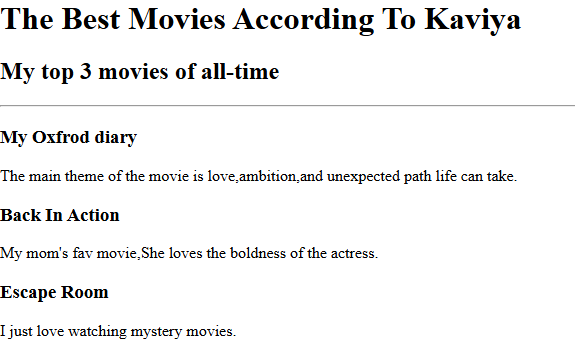
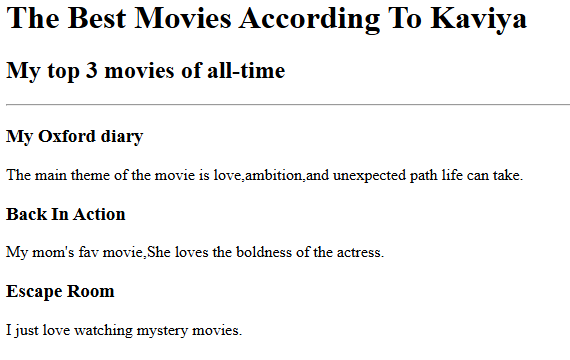
Add files via upload

diff --git a/index.html b/index.html
@@ -2,21 +2,21 @@
 <html lang="en">
 
 <head>
-  <meta charset="UTF-8">
-  <title>Kaviya's Portfolio</title>
+    <meta charset="UTF-8">
+    <title>Kaviya's Portfolio</title>
 </head>
 
 <body>
-  <h1>Kaviya's Portfolio</h1>
-  <h2>I'm a Web Developer</h2>
-  <hr />
-  <h3><a href="./public/movie-ranking.html">Movie Ranking Project</a></h3>
-  <img src="./assets/images/movie-ranking-1.png" height="200" alt="movie ranking project preview"/>
-  <h3><a href="./public/birthday-invite.html">Birthday Invite Project</a></h3>
-  <img src="./assets/images/birthday-invite-1.png" height="200" alt="birthday invite project preview"/>
-  <hr />
-  <a href="./public/about.html">About Me</a>
-  <a href="./public/contact.html">Contact Me</a>
+    <h1>Kaviya's Portfolio</h1>
+    <h2>I'm a Web Developer</h2>
+    <hr />
+    <h3><a href="./public/movie-ranking.html">Movie Ranking Project</a></h3>
+    <img src="./assets/images/movie-ranking-1.png" height="200" alt="movie ranking project preview" />
+    <h3><a href="./public/birthday-invite.html">Birthday Invite Project</a></h3>
+    <img src="./assets/images/birthday-invite-1.png" height="200" alt="birthday invite project preview" />
+    <hr />
+    <a href="./public/about.html">About Me</a>
+    <a href="./public/contact.html">Contact Me</a>
 </body>
 
 </html>

diff --git a/public/movie-ranking.html b/public/movie-ranking.html
@@ -1,9 +1,12 @@
-<h1>The Best Movies According to Angela</h1>
-<h2>My top 3 movies of all-time.</h2>
+<h1>The Best Movies According To Kaviya</h1>
+<h2>My top 3 movies of all-time</h2>
 <hr />
-<h3>Spirited Away</h3>
-<p>This is my favourite anime. I love the beautiful images.</p>
-<h3>Ex Machina</h3>
-<p>Really cool sci-fi movie.</p>
-<h3>Drive</h3>
-<p>Super beautiful film. Really artistic.</p>
+
+<h3>My Oxford diary</h3>
+<p>The main theme of the movie is love,ambition,and unexpected path life can take.</p>
+
+<h3>Back In Action</h3>
+<p>My mom's fav movie,She loves the boldness of the actress.</p>
+
+<h3>Escape Room</h3>
+<p>I just love watching mystery movies.</p>

diff --git a/public/birthday-invite.html b/public/birthday-invite.html
@@ -1,6 +1,6 @@
 <!-- This is one possible solution -->
 <h1>It's My Birthday!</h1>
-<h2>On the 12th May</h2>
+<h2>On the 3rd April</h2>
 
 <img src="https://raw.githubusercontent.com/appbrewery/webdev/main/birthday-cake3.4.jpeg"
   alt="purple birthday cake with candles" />
@@ -8,8 +8,8 @@
 <h3>What to bring:</h3>
 <ul>
   <li>Baloons (I love baloons)</li>
-  <li>Cake (I'm really good at eating)</li>
-  <li>An appetite (There will be lots of food)</li>
+  <li>Cake (Best part of bday's)</li>
+  <li>Gifts (Exciting!!)</li>
 </ul>
 
 <h3>This is where you need to go:</h3>
